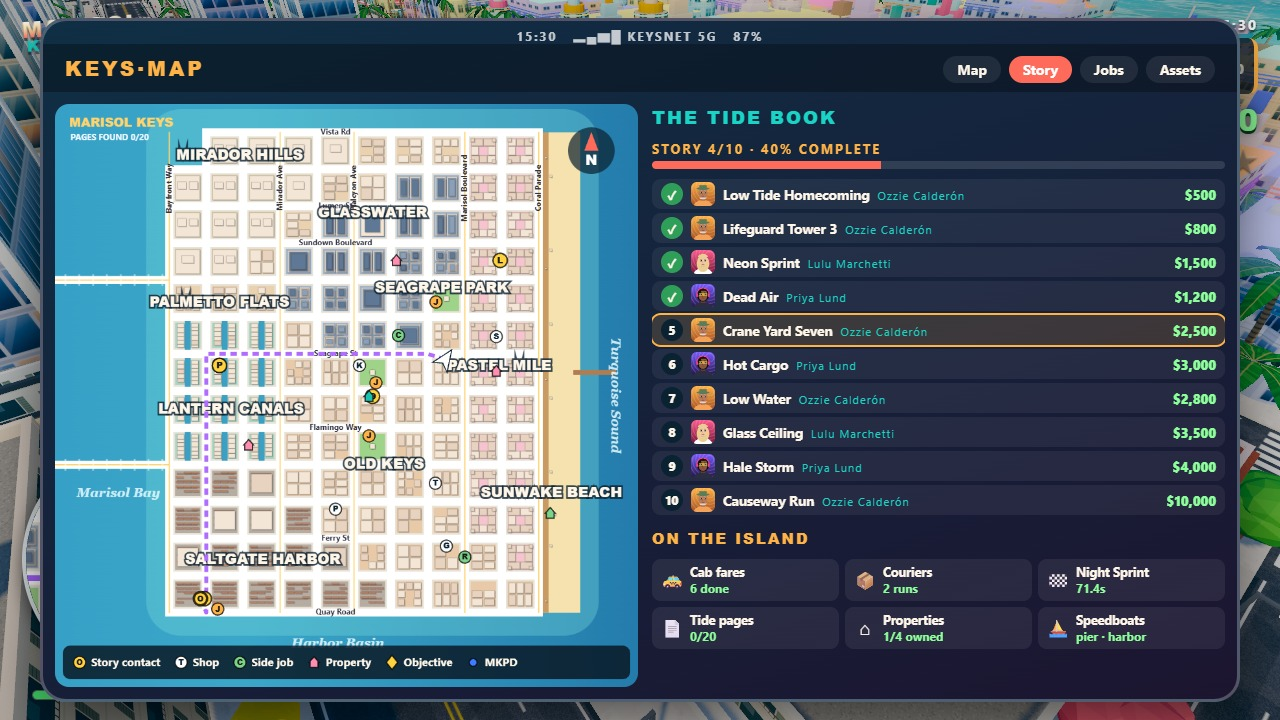
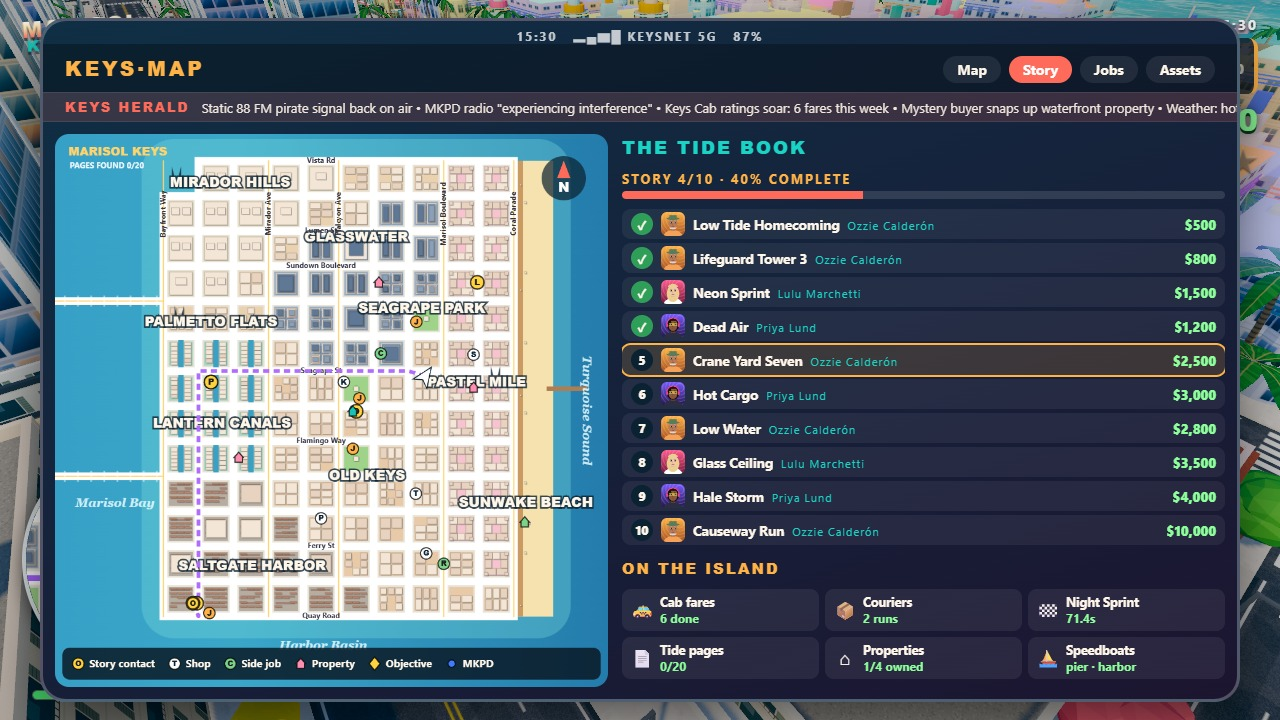
Keys Herald news ticker on the phone, headlines following the story

diff --git a/game/src/story/newsHeadlines.js b/game/src/story/newsHeadlines.js
@@ -1,0 +1,27 @@
+// The Keys Herald: island headlines that react to how far the story has gone and what the
+// player has been up to, shown as a ticker on Tessa's phone.
+
+// BY_CHAPTER[k]: what the paper prints once k story missions are done.
+const BY_CHAPTER = [
+  ['Harbor fees up again, fishermen furious', 'Sunwake Beach named cleanest on the coast', 'Ferry pilot Marco Vane mourned at the marina'],
+  ['Marco Vane\'s sister back on the Keys', 'Old Keys house reopened after six years'],
+  ['Mystery cooler theft at Lifeguard Tower 3', 'Beach patrol "baffled", says spokesperson'],
+  ['Late-night street race lights up Coral Parade', 'Coral Room owner denies any knowledge'],
+  ['Static 88 FM pirate signal back on air', 'MKPD radio "experiencing interference"'],
+  ['Shoot-out at Crane Yard 7 — seven arrests', 'Moreau shipping licence under review'],
+  ['MKPD evidence van stolen from harbor depot', 'Captain Hale: "a minor clerical matter"'],
+  ['Speedboat seen racing round the south point', 'Press boat anchors off Sunwake pier'],
+  ['Black Strata GT wrecked outside Lumen Tower', 'Gideon Moreau taken into custody'],
+  ['Gunfire at Mirador Hills estate', 'Hale estate security "overwhelmed"'],
+  ['THE TIDE BOOK: every payoff, every name', 'Hale suspended after causeway chase', 'Island council orders harbor inquiry', 'Tessa Vane "just a ferry pilot", say friends'],
+];
+
+export function headlines(state) {
+  const chapter = Math.min(state.story, BY_CHAPTER.length - 1);
+  const out = [...BY_CHAPTER[chapter]];
+  if (state.stats?.fares > 0) out.push(`Keys Cab ratings soar: ${state.stats.fares} fares this week`);
+  if ((state.pages || []).length) out.push(`Loose ledger pages found around the island: ${(state.pages || []).length} so far`);
+  if (state.properties?.length) out.push('Mystery buyer snaps up waterfront property');
+  out.push('Weather: hot, sunny, chance of afternoon storms', 'Mango Bay Cola — taste the sunset');
+  return out;
+}

diff --git a/game/style.css b/game/style.css
@@ -88,6 +88,9 @@ html, body { margin: 0; height: 100%; overflow: hidden; background: #0b2233; fon
 #phone .phone-title { font-family: var(--display); font-size: 20px; letter-spacing: 3px; color: var(--amber); }
 #phone .phone-tabs b { margin-left: 8px; padding: 4px 14px; border-radius: 14px; font-size: 14px; cursor: pointer; pointer-events: auto; background: rgba(255,255,255,0.08); }
 #phone .phone-tabs b.on { background: var(--coral); color: #fff; }
+#phone .phone-ticker { display: flex; gap: 12px; align-items: center; padding: 5px 22px; background: rgba(255,107,90,0.16); border-top: 1px solid rgba(255,255,255,0.08); border-bottom: 1px solid rgba(255,255,255,0.08); white-space: nowrap; overflow: hidden; font-size: 13px; }
+#phone .phone-ticker b { font-family: var(--display); letter-spacing: 2px; color: var(--coral); flex: none; }
+#phone .phone-ticker span { color: #fff6ea; opacity: 0.92; }
 #phone .phone-body { flex: 1; display: flex; gap: 14px; padding: 12px; min-height: 0; }
 #phone-map { height: 100%; aspect-ratio: 1; border-radius: 14px; }
 #phone-side { flex: 1; overflow: hidden; display: flex; flex-direction: column; gap: 6px; }

diff --git a/game/src/ui/phoneScreen.js b/game/src/ui/phoneScreen.js
@@ -9,6 +9,7 @@ import { PROPERTIES } from '../economy/shops.js';
 import { formatMoney } from '../core/mathUtil.js';
 import { planRoute } from '../roads/routePlanner.js';
 import { DISTRICTS } from '../world/cityPlan.js';
+import { headlines } from '../story/newsHeadlines.js';
 import { formatClock } from '../sky/timeOfDay.js';
 
 const MAP_VIEW = { x0: -70, z0: 15, span: 1010 };
@@ -43,6 +44,8 @@ export class PhoneScreen {
     const g = this.game;
     const status = this.el.querySelector('.phone-status');
     if (status) status.textContent = `${formatClock(g.state.hour)}   ▂▄▆█ KEYSNET 5G   87%`;
+    const ticker = this.el.querySelector('.phone-ticker span');
+    if (ticker) ticker.textContent = headlines(g.state).join('   •   ');
     this.el.querySelectorAll('[data-tab]').forEach((b) => b.classList.toggle('on', b.dataset.tab === this.tab || (this.tab === 'map' && b.dataset.tab === 'map')));
     const ctx = this.canvas.getContext('2d');
     const { project } = paintIllustratedMap(ctx, this.canvas.width, MAP_VIEW);

diff --git a/game/src/ui/screenLayout.js b/game/src/ui/screenLayout.js
@@ -41,6 +41,7 @@ function phoneMarkup() {
 <div id="phone" class="hidden">
   <div class="phone-status"></div>
   <div class="phone-header"><span class="phone-title">KEYS·MAP</span><span class="phone-tabs"><b data-tab="map">Map</b><b data-tab="story">Story</b><b data-tab="jobs">Jobs</b><b data-tab="assets">Assets</b></span></div>
+  <div class="phone-ticker"><b>KEYS HERALD</b><span></span></div>
   <div class="phone-body">
     <canvas id="phone-map" width="900" height="900"></canvas>
     <div id="phone-side"></div>
